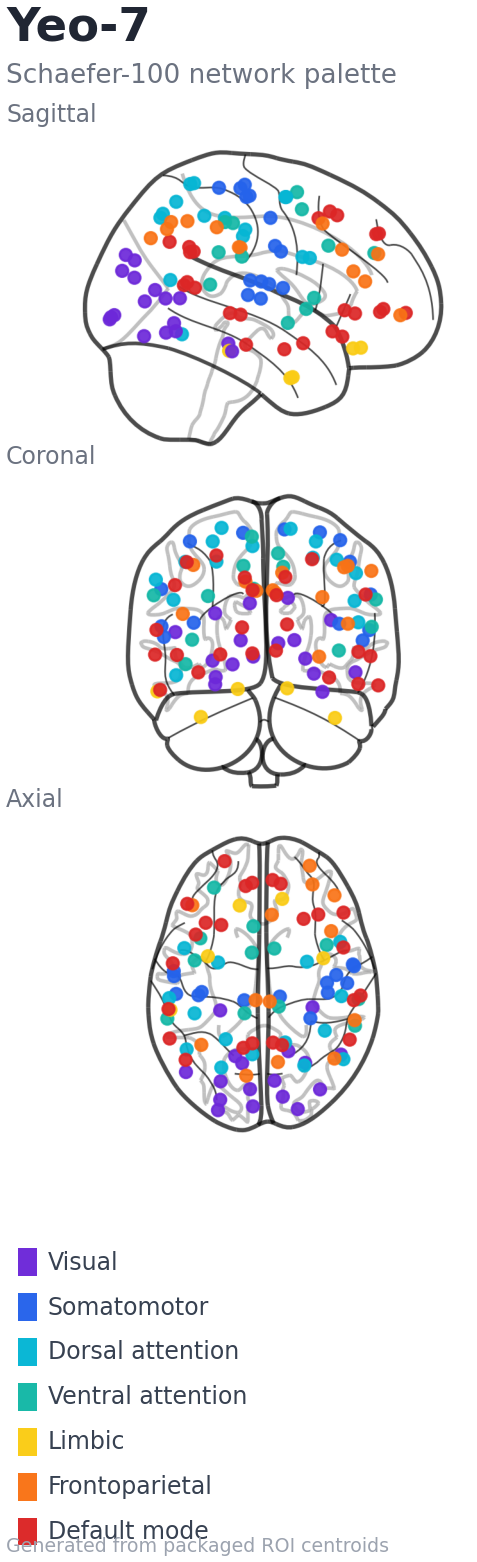
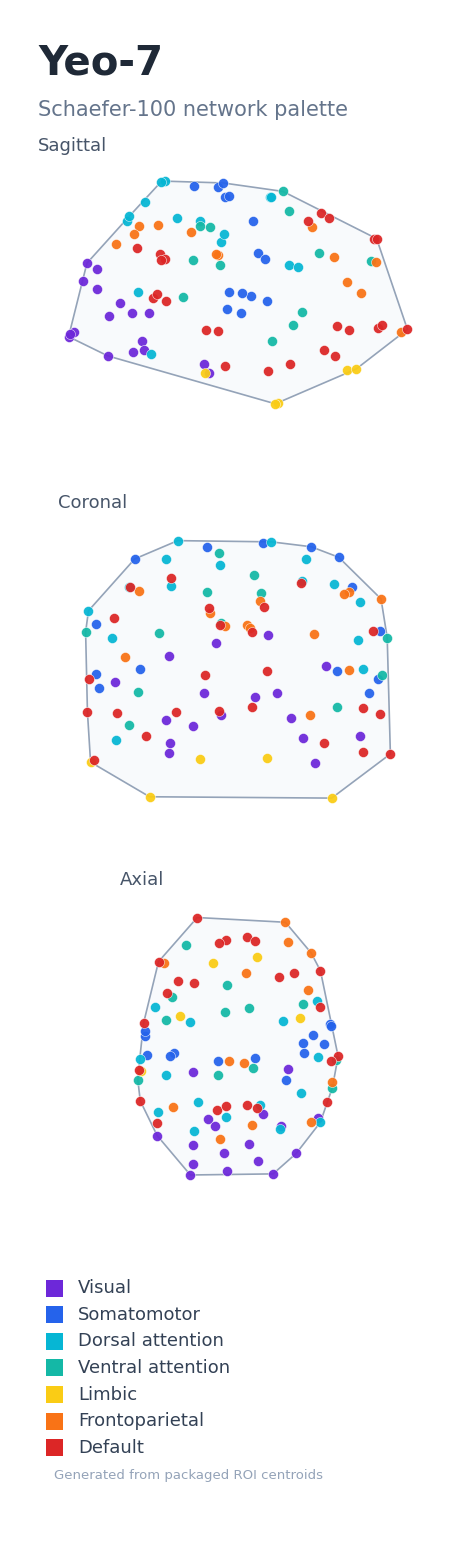
Add Schaefer atlas sidebar palettes

diff --git a/scripts/generate_schaefer_sidebar_palettes.py b/scripts/generate_schaefer_sidebar_palettes.py
@@ -1,0 +1,103 @@
+#!/usr/bin/env python3
+"""Create compact, centroid-based Yeo-7 sidebar palettes for Schaefer atlases."""
+
+from pathlib import Path
+
+import matplotlib.pyplot as plt
+from matplotlib.patches import Polygon
+import numpy as np
+import pandas as pd
+from scipy.spatial import ConvexHull
+
+
+ROOT = Path(__file__).resolve().parents[1]
+ATLAS_DIR = ROOT / "conninfpy" / "atlas_data"
+ASSET_DIR = ROOT / "apps" / "assets"
+
+NETWORK_COLORS = {
+    "Visual": "#6D28D9",
+    "Somatomotor": "#2563EB",
+    "Dorsal attention": "#06B6D4",
+    "Ventral attention": "#14B8A6",
+    "Limbic": "#FACC15",
+    "Frontoparietal": "#F97316",
+    "Default": "#DC2626",
+}
+NETWORK_ORDER = list(NETWORK_COLORS)
+NETWORK_ALIASES = {
+    "SomMot": "Somatomotor",
+    "DorsAttn": "Dorsal attention",
+    "SalVentAttn": "Ventral attention",
+    "Cont": "Frontoparietal",
+}
+PROJECTIONS = [
+    ("Sagittal", "y", "z"),
+    ("Coronal", "x", "z"),
+    ("Axial", "x", "y"),
+]
+
+
+def _draw_projection(ax, atlas: pd.DataFrame, title: str, horizontal: str, vertical: str, marker_size: float) -> None:
+    points = atlas[[horizontal, vertical]].to_numpy()
+    hull = ConvexHull(points)
+    outline = points[hull.vertices]
+    ax.add_patch(
+        Polygon(outline, closed=True, facecolor="#F8FAFC", edgecolor="#94A3B8", linewidth=1.2, zorder=0)
+    )
+
+    for network in NETWORK_ORDER:
+        subset = atlas.loc[atlas["network"] == network]
+        ax.scatter(
+            subset[horizontal],
+            subset[vertical],
+            s=marker_size,
+            color=NETWORK_COLORS[network],
+            edgecolors="white",
+            linewidths=0.35,
+            alpha=0.94,
+            zorder=2,
+        )
+
+    x_span = np.ptp(points[:, 0])
+    y_span = np.ptp(points[:, 1])
+    ax.set_xlim(points[:, 0].min() - x_span * 0.09, points[:, 0].max() + x_span * 0.09)
+    ax.set_ylim(points[:, 1].min() - y_span * 0.09, points[:, 1].max() + y_span * 0.09)
+    ax.set_aspect("equal")
+    ax.set_title(title, loc="left", fontsize=13, color="#475569", pad=7)
+    ax.axis("off")
+
+
+def create_palette(n_rois: int) -> Path:
+    atlas = pd.read_csv(ATLAS_DIR / f"schaefer{n_rois}_yeo7.csv")
+    atlas["network"] = atlas["network"].replace(NETWORK_ALIASES)
+    marker_size = {100: 52, 200: 30, 400: 15}[n_rois]
+
+    fig = plt.figure(figsize=(4.77, 15.62), dpi=100, facecolor="white")
+    fig.subplots_adjust(left=0.08, right=0.92, top=0.91, bottom=0.05, hspace=0.26)
+    grid = fig.add_gridspec(4, 1, height_ratios=[1, 1, 1, 0.7])
+
+    fig.text(0.08, 0.972, "Yeo-7", fontsize=29, fontweight="bold", color="#1F2937", va="top")
+    fig.text(0.08, 0.936, f"Schaefer-{n_rois} network palette", fontsize=15, color="#64748B", va="top")
+
+    for index, (title, horizontal, vertical) in enumerate(PROJECTIONS):
+        _draw_projection(fig.add_subplot(grid[index]), atlas, title, horizontal, vertical, marker_size)
+
+    legend_ax = fig.add_subplot(grid[3])
+    legend_ax.axis("off")
+    for index, network in enumerate(NETWORK_ORDER):
+        y = 0.92 - index * 0.125
+        legend_ax.scatter(0.04, y, s=150, marker="s", color=NETWORK_COLORS[network], edgecolors="none")
+        legend_ax.text(0.10, y, network, fontsize=13, color="#334155", va="center")
+    legend_ax.text(0.04, 0.01, "Generated from packaged ROI centroids", fontsize=9.5, color="#94A3B8", va="bottom")
+    legend_ax.set_xlim(0, 1)
+    legend_ax.set_ylim(0, 1)
+
+    output = ASSET_DIR / f"yeo7_schaefer{n_rois}_sidebar_palette.png"
+    fig.savefig(output, facecolor="white")
+    plt.close(fig)
+    return output
+
+
+if __name__ == "__main__":
+    for n_rois in (100, 200, 400):
+        print(create_palette(n_rois))

diff --git a/apps/streamlit_nimare.py b/apps/streamlit_nimare.py
@@ -113,8 +113,13 @@ if atlas_mode == "Bundled atlas":
 
     # Sidebar resting state network visualization palette
     if "Schaefer" in atlas_choice:
+        schaefer_palette = {
+            "Schaefer-100 Yeo-7": "apps/assets/yeo7_schaefer100_sidebar_palette.png",
+            "Schaefer-200 Yeo-7": "apps/assets/yeo7_schaefer200_sidebar_palette.png",
+            "Schaefer-400 Yeo-7": "apps/assets/yeo7_schaefer400_sidebar_palette.png",
+        }[atlas_choice]
         st.sidebar.image(
-            "apps/assets/yeo7_schaefer100_sidebar_palette.png",
+            schaefer_palette,
             use_container_width=True
         )
         st.sidebar.caption("Yeo-7 network palette mapping")
